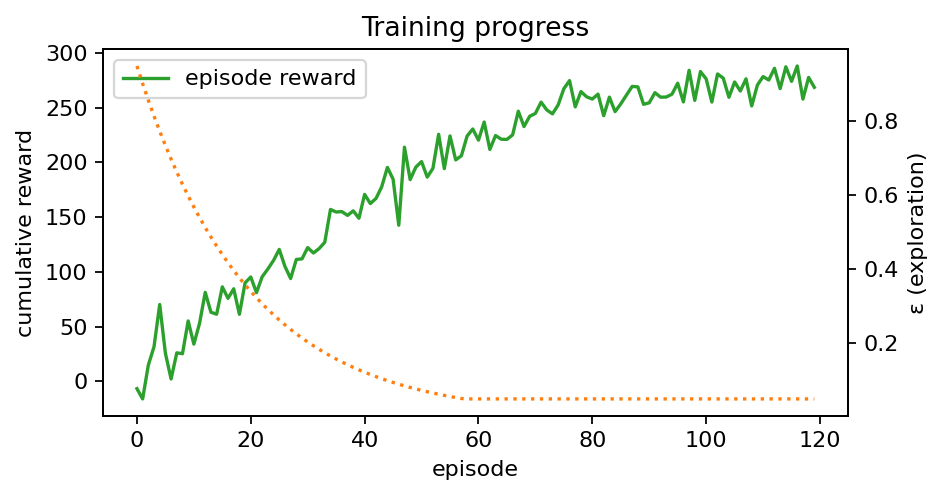
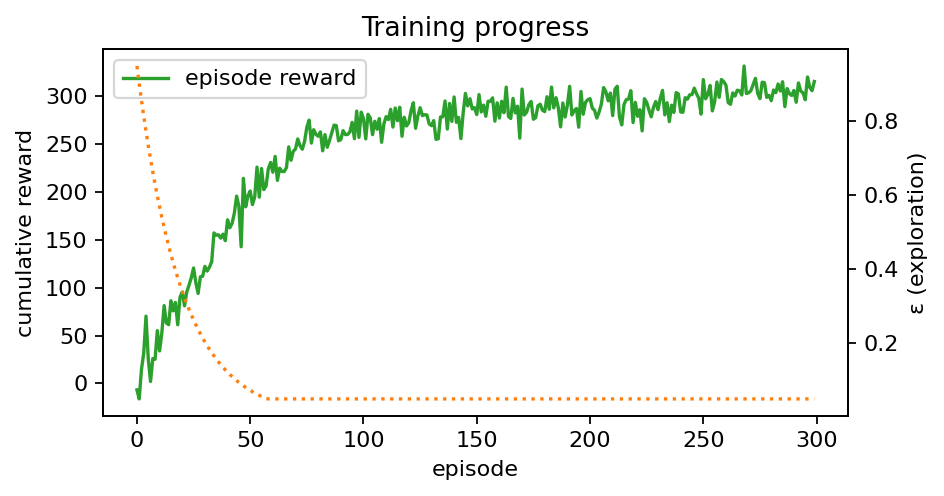
Headline → 300 episodes: fuller-trained run, narrative reframed to "no edge"
Use the config-default 300-episode run as the headline (config = headline =
menu, fully consistent). The fuller-trained policy nearly matches Buy & Hold on
raw return but shows no risk-adjusted edge — a fairer, more defensible result
than the undertrained 120-ep figure (avoids an "undertrained" critique).

Held-out test (112 days), deterministic / seeded, reproducible bit-for-bit
across two independent runs:
  DQN -17.5% (Sharpe -1.66) vs Buy & Hold -16.5%; max DD 19.4%; win 20.0%;
  21 trades; recommendation BUY. In-sample training compounds $10k → ~$344k.

Narrative reframed from "loses badly" to the honest "no demonstrable edge":
matches Buy & Hold on return but loses on a risk-adjusted basis (negative
Sharpe) and never beats it — the gulf between ~$344k in-sample and ≈B&H
out-of-sample is the textbook-overfitting finding. Synced across README
(header, Results table, Conclusions, Q&A, reproduce cmd), the re-executed
notebook, terminal_session.txt, and regenerated charts. config episodes 120→300.

Gates: ruff clean, 171 passed, 100% statement+branch coverage, ≤150 lines,
secret-scan clean.

diff --git a/scripts/generate_results.py b/scripts/generate_results.py
@@ -1,6 +1,6 @@
 """Generate README results: train on the configured ticker, backtest, save artifacts.
 
-    uv run python scripts/generate_results.py --episodes 120
+    uv run python scripts/generate_results.py --episodes 300
 
 Writes to ``results/analysis/``: training_reward.png, backtest_equity.png,
 backtest_metrics.json. Hits Yahoo Finance once (gatekept + cached) on first run.

diff --git a/README.md b/README.md
@@ -156,7 +156,7 @@ uv run main.py          # terminal menu: Prepare → Train → Backtest → Reco
 uv run main.py gui      # Tkinter + matplotlib dashboard
 
 # regenerate the results below (fetches Yahoo once, then trains + backtests):
-uv run python scripts/generate_results.py --episodes 120
+uv run python scripts/generate_results.py --episodes 300
 ```
 
 A typical session: **Prepare data** (fetch + cache + features + split) → **Train**
@@ -216,16 +216,16 @@ $ uv run main.py
 Select: 1
 Prepared splits: {'train': 515, 'validation': 110, 'test': 112}
 Select: 2
-Trained 120 episode(s); ε=0.050  final value=244098.82
+Trained 300 episode(s); ε=0.050  final value=344403.66
 Select: 3
-Backtest: total_return=-28.84%  benchmark=-16.47%  Sharpe=-3.55  max_drawdown=32.02%  win_rate=14.29%  trades=14
+Backtest: total_return=-17.49%  benchmark=-16.47%  Sharpe=-1.66  max_drawdown=19.41%  win_rate=20.00%  trades=21
 Select: 4
-Recommended action: BUY  (Q = [12.193, 12.138, 12.526])
+Recommended action: BUY  (Q = [13.882, 13.827, 14.056])
 ```
 
 > Verbatim from a real run captured to [`assets/terminal_session.txt`](assets/terminal_session.txt).
 > Seeded (`config.seed`), so it reproduces the **Results** numbers below exactly — the
-> menu's Train uses the config default of 120 episodes.
+> menu's Train uses the config default of 300 episodes.
 
 **GUI** (Tkinter + matplotlib) — a toolbar drives the SDK with inputs you can
 play with: a **ticker** + **date range** (train on AAPL, MSFT, TSLA…), an
@@ -293,7 +293,7 @@ screen-reader testing; chart colours are not formally CVD-checked.
 ## Results & analysis
 
 <!-- RESULTS:START (filled by scripts/generate_results.py) -->
-**Real run — AAPL, 2020-01-01→2023-01-01 (the binding §4 window), 120 training
+**Real run — AAPL, 2020-01-01→2023-01-01 (the binding §4 window), 300 training
 episodes.** Chronological split: train 515 days · validation 110 · test 112.
 Evaluated **greedy** on the held-out **test** slice it never trained on.
 
@@ -303,19 +303,21 @@ Evaluated **greedy** on the held-out **test** slice it never trained on.
 
 | Metric (held-out test, 112 days) | DQN policy | Buy & Hold |
 |---|---:|---:|
-| Total return | **−28.8 %** | −16.5 % |
-| Sharpe ratio | −3.55 | — |
-| Max drawdown | 32.0 % | — |
-| Win rate (round-trips) | 14.3 % | — |
-| Trades | 14 | 1 |
+| Total return | **−17.5 %** | −16.5 % |
+| Sharpe ratio | −1.66 | — |
+| Max drawdown | 19.4 % | — |
+| Win rate (round-trips) | 20.0 % | — |
+| Trades | 21 | 1 |
 | Latest recommendation | **BUY** | — |
 
-**The test window is AAPL's 2022 drawdown**, so *both* lost money — and the DQN
-lost **more** than simply holding. Training reward rises while the unseen test
-slice underperforms: a clean in-sample/out-of-sample gap (see Conclusions).
+**The test window is AAPL's 2022 drawdown**, so *both* lost money. The DQN ends
+within ~1 point of simply holding (−17.5 % vs −16.5 %) but with a **negative
+Sharpe (−1.66)** — no risk-adjusted edge. Set against that, training compounds
+the $10k stake to **~$344k in-sample**: a stark in-sample/out-of-sample gap that
+is the real finding (see Conclusions).
 
 Numbers from [`results/analysis/backtest_metrics.json`](results/analysis/backtest_metrics.json);
-reproduce with `uv run python scripts/generate_results.py --episodes 120`. The run is
+reproduce with `uv run python scripts/generate_results.py --episodes 300`. The run is
 **seeded** (`config.seed`) — Python/NumPy/Torch RNGs are fixed, so a fresh run on the
 same machine reproduces these numbers exactly (verified across two independent runs).
 <!-- RESULTS:END -->
@@ -330,24 +332,27 @@ same machine reproduces these numbers exactly (verified across two independent r
 ## Conclusions
 
 <!-- CONCLUSIONS:START -->
-**The headline is a clean out-of-sample failure — exactly what the brief asks us
-to surface honestly.** On the held-out 2022 test slice the DQN returns
-**−28.8 % (Sharpe −3.55)** versus Buy & Hold's **−16.5 %**: it not only fails to
-beat the market, it underperforms simply holding. Two things are true and
-reported, not hidden:
+**The headline is an honest "no demonstrable edge" — exactly what the brief asks
+us to surface.** On the held-out 2022 test slice the DQN returns
+**−17.5 % (Sharpe −1.66)** versus Buy & Hold's **−16.5 %**: it lands within a
+point of simply holding on raw return, but **never beats the benchmark and loses
+on a risk-adjusted basis** (negative Sharpe). Two things are true and reported,
+not hidden:
 
-- **It loses to Buy & Hold out-of-sample** (−28.8 % vs −16.5 %).
-- **In-sample ≫ out-of-sample.** Training reward climbs steadily (see the chart)
-  while the unseen test slice underperforms — the agent fits the 2020–2021 bull
-  regime and does not generalise to the 2022 regime shift. Textbook overfitting
-  on a single ticker over a single regime.
+- **No risk-adjusted edge out-of-sample** (−17.5 % vs −16.5 %, Sharpe −1.66) —
+  it roughly matches Buy & Hold on return but took more risk to get there, so
+  holding was strictly the better choice.
+- **In-sample ≫ out-of-sample.** Training compounds the $10k stake to **~$344k**
+  while the unseen test slice only matches Buy & Hold — the agent fits the
+  2020–2021 bull regime and carries no real edge into the 2022 regime shift.
+  Textbook overfitting on a single ticker over a single regime.
 
 Why, and what I'd do differently:
 
 - **Regularise:** dropout / weight decay, a smaller network, **early-stopping on
   the validation Sharpe** (not on training reward), and training across
   **multiple tickers / regimes** so the policy can't memorise one symbol.
-- **Re-weight risk / cut churn:** the Sharpe-heavy reward (γ=1.0) plus 14 trades
+- **Re-weight risk / cut churn:** the Sharpe-heavy reward (γ=1.0) plus 21 trades
   in a falling market hurt; tune the cost/risk weights on validation.
 - **Sweep hyperparameters** (γ, learning rate, λ, network size) on the
   **validation** split before ever touching test (done — see the §9 sweep).
@@ -371,7 +376,7 @@ The twelve questions the brief requires the README to answer, with pointers to t
 8. **Exploration (training) vs evaluation (backtest)?** Training is ε-greedy (random with prob ε to explore); the backtest is **greedy** (`argmax Q`, ε=0) — we evaluate the learned policy, not exploration noise ([agent.py](src/tradedqn/model/agent.py), [backtest.py](src/tradedqn/services/backtest.py)).
 9. **Is Total Return enough?** No — a high return can hide huge risk. We also report **Sharpe** (risk-adjusted), **Max Drawdown** (worst pain), and **Win Rate** (consistency) so a lucky high-variance run can't pass as skill ([metrics.py](src/tradedqn/services/metrics.py)).
 10. **Which env/reward bugs fake a good backtest?** Look-ahead (using `price[t+1]` in the state), normalization fit on the full series, an off-by-one reward (crediting a trade before it executes), or zero transaction cost — all inflate results. Our env executes at `prices[t]` with the next day only as *outcome*, and a test asserts no look-ahead ([trading_env.py](src/tradedqn/env/trading_env.py)).
-11. **General policy vs an AAPL quirk?** Out-of-sample it *underperforms* (−28.8% vs −16.5%) — evidence it fit AAPL's 2020–2021 regime, not a general edge. Proving generality requires train/test across **multiple tickers and regimes** with consistent held-out Sharpe.
+11. **General policy vs an AAPL quirk?** Out-of-sample it shows *no edge* (−17.5% vs −16.5%, Sharpe −1.66) — evidence it fit AAPL's 2020–2021 regime, not a general edge. Proving generality requires train/test across **multiple tickers and regimes** with consistent held-out Sharpe.
 12. **Extend to another (financial or non-financial) problem, same RL structure?** Swap the `Environment` behind the SDK: define a new `state`/`action`/`reward` (e.g. energy dispatch, inventory control) in a `TradingEnvironment`-shaped class; the agent / training / backtest / SDK layers are domain-agnostic ([Extending it](#extending-it)).
 
 ## Research notebook & sensitivity analysis (§9)